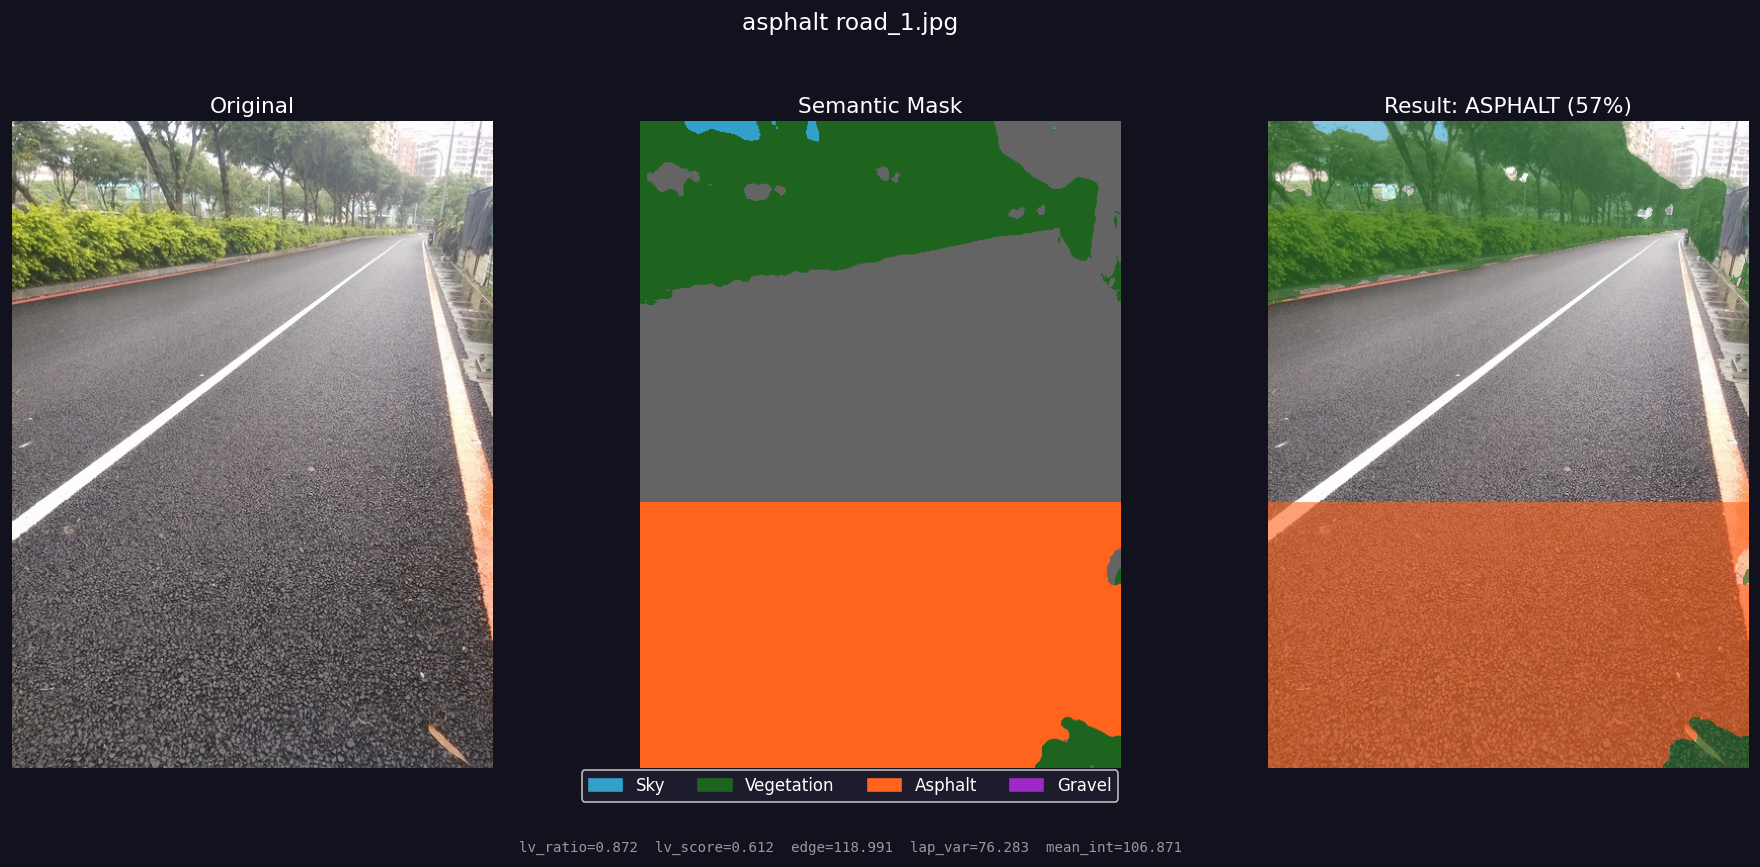
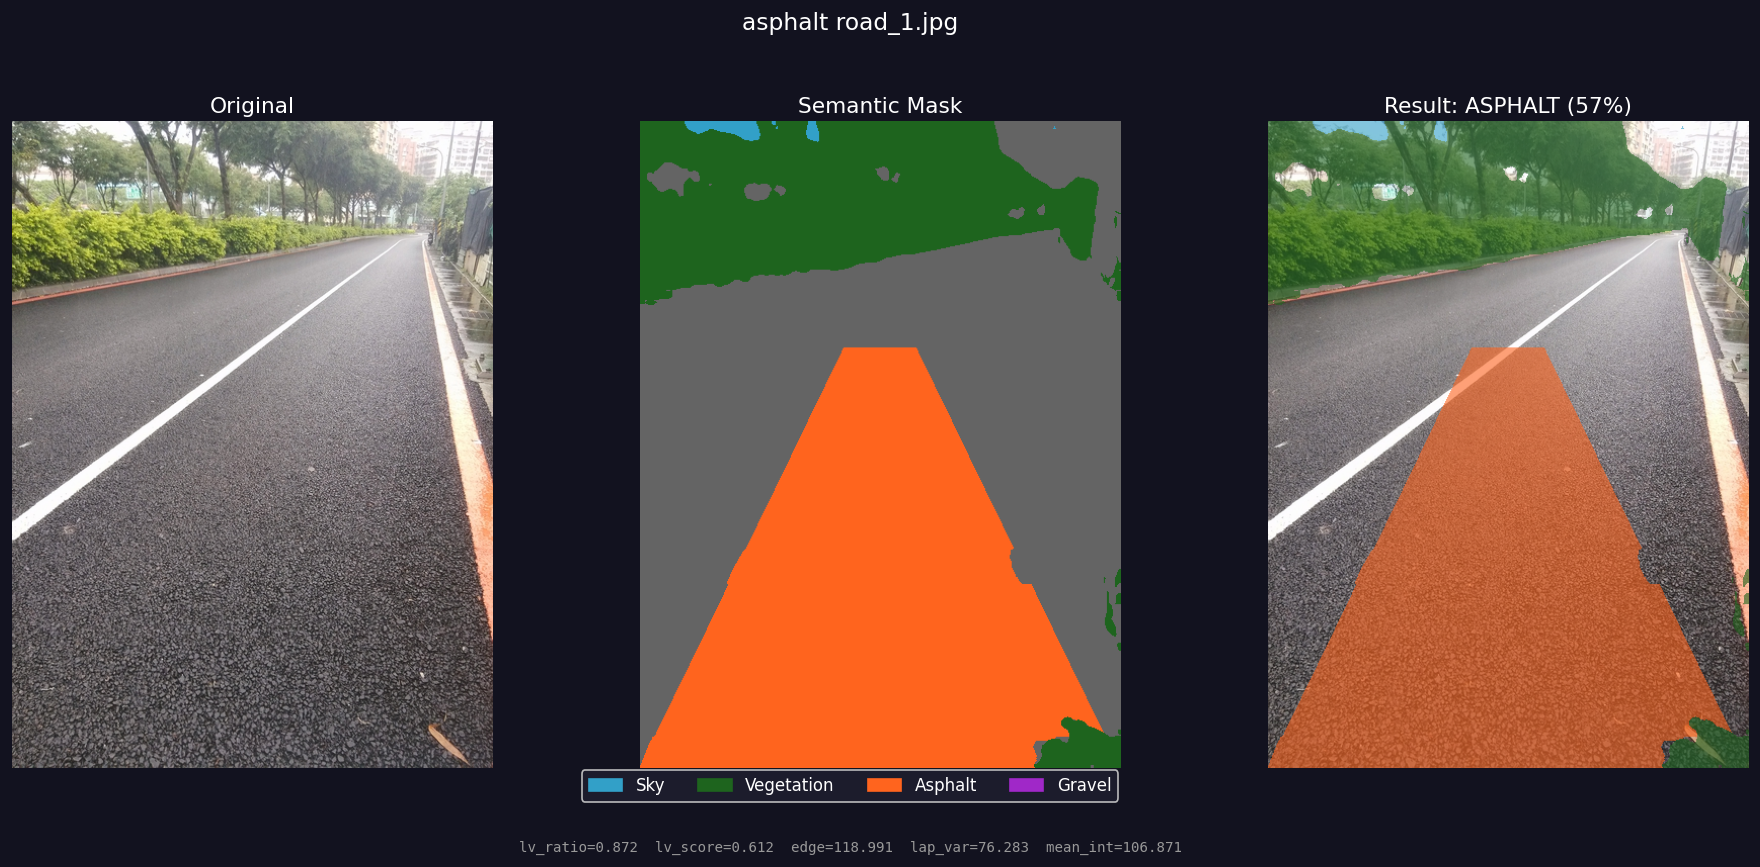
fix: asphalt_road_1 透視漸層收窄；更新 README 技術細節
- 新增 _gradient_taper_mask()：當 SegFormer 覆蓋率 > 45% 時
  自動啟動漸層收窄，從底部全寬平滑收縮至頂端 15% 寬
  解決下雨天反光導致道路顏色以矩形平舖的問題
- 新增 _hough_road_polygon() 保留但暫不用於主流程
- image_paths 過濾加入 'road' 關鍵字，排除 image.png
- save_summary 改為動態 n_rows，不限定 6 張
- README：碎石路顏色更新為紫色；技術細節新增形態學說明

Changed region(s): [[0.3438, 0.3737, 0.6562, 0.872], [0.7188, 0.3737, 1.0, 0.872], [0.9375, 0.8408, 0.9688, 0.872]]

diff --git a/road_detection.py b/road_detection.py
@@ -86,6 +86,125 @@ def run_segformer(image_path, processor, model, device):
     return seg_map
 
 
+def _gradient_taper_mask(road_mask: np.ndarray, upper_cut: int,
+                          top_frac: float = 0.20) -> np.ndarray:
+    """
+    Create a perspective-tapered version of road_mask.
+    Each row keeps the same centre as the SegFormer mask, but the width
+    shrinks linearly from 100 % at the bottom to `top_frac` % at upper_cut.
+
+    This gives the natural 'vanishing road' look without relying on lane markings.
+    """
+    H, W = road_mask.shape
+    tapered = np.zeros_like(road_mask)
+
+    for row in range(upper_cut, H):
+        cols = np.where(road_mask[row])[0]
+        if len(cols) == 0:
+            continue
+        c_min, c_max = int(cols[0]), int(cols[-1])
+        center   = (c_min + c_max) / 2.0
+        half_w   = (c_max - c_min) / 2.0
+
+        # t = 0 at upper_cut (top), t = 1 at H-1 (bottom)
+        t = (row - upper_cut) / max(1, H - 1 - upper_cut)
+        taper_hw = half_w * (top_frac + (1.0 - top_frac) * t)
+
+        x0 = max(0,     int(center - taper_hw))
+        x1 = min(W - 1, int(center + taper_hw))
+        tapered[row, x0 : x1 + 1] = True
+
+    return tapered & road_mask
+
+
+def _hough_road_polygon(bgr, upper_cut: int) -> np.ndarray | None:
+    """
+    Detect lane lines with Hough transform and return a filled
+    perspective polygon (H×W bool), or None if detection fails.
+
+    The polygon covers the road corridor from the bottom up to
+    approximately the vanishing-point row.
+    """
+    H, W = bgr.shape[:2]
+    gray = cv2.cvtColor(bgr, cv2.COLOR_BGR2GRAY)
+
+    # Work only in the road region
+    roi = gray[upper_cut:].copy()
+    roi_h = roi.shape[0]
+
+    blur  = cv2.GaussianBlur(roi, (7, 7), 0)
+    edges = cv2.Canny(blur, 40, 120)
+
+    lines = cv2.HoughLinesP(edges, rho=1, theta=np.pi / 180,
+                             threshold=40, minLineLength=60, maxLineGap=50)
+    if lines is None:
+        return None
+
+    cx = W // 2
+    left_pts, right_pts = [], []
+
+    for line in lines:
+        x1, y1, x2, y2 = line[0]
+        if x2 == x1:
+            continue
+        slope = (y2 - y1) / (x2 - x1)
+        # Convert ROI-relative y to full-image y
+        y1f, y2f = y1 + upper_cut, y2 + upper_cut
+
+        # Left lane: negative slope, left half
+        if -5.0 < slope < -0.25 and min(x1, x2) < cx:
+            left_pts += [(x1, y1f), (x2, y2f)]
+        # Right lane: positive slope, right half
+        elif 0.25 < slope < 5.0 and max(x1, x2) > cx:
+            right_pts += [(x1, y1f), (x2, y2f)]
+
+    def extrapolate(pts, y_bot, y_top):
+        if len(pts) < 4:
+            return None, None
+        arr = np.array(pts)
+        coeffs = np.polyfit(arr[:, 1], arr[:, 0], 1)   # x = f(y)
+        return int(np.polyval(coeffs, y_bot)), int(np.polyval(coeffs, y_top))
+
+    y_bottom = H - 1
+    y_top    = upper_cut + max(20, int(roi_h * 0.15))   # ~15 % above upper_cut
+
+    lx_b, lx_t = extrapolate(left_pts,  y_bottom, y_top)
+    rx_b, rx_t = extrapolate(right_pts, y_bottom, y_top)
+
+    if lx_b is None or rx_b is None:
+        return None
+
+    # Clamp to image bounds
+    def clamp(x): return max(0, min(W - 1, x))
+    lx_b, lx_t = clamp(lx_b), clamp(lx_t)
+    rx_b, rx_t = clamp(rx_b), clamp(rx_t)
+
+    # Sanity: left must be left of right
+    if lx_b >= rx_b or lx_t >= rx_t:
+        return None
+
+    poly_pts = np.array([[lx_b, y_bottom], [rx_b, y_bottom],
+                          [rx_t, y_top],   [lx_t, y_top]], dtype=np.int32)
+    poly = np.zeros((H, W), dtype=np.uint8)
+    cv2.fillPoly(poly, [poly_pts], 1)
+    return poly.astype(bool)
+
+
+def _default_trapezoid(H, W, upper_cut: int) -> np.ndarray:
+    """
+    Fallback: fixed trapezoid centred on the lower image.
+    Narrow at the top (~30 % width), wide at the bottom (full width).
+    """
+    bx0, bx1 = int(W * 0.00), int(W * 1.00)
+    tx0, tx1 = int(W * 0.30), int(W * 0.70)
+    ty        = upper_cut + max(10, int((H - upper_cut) * 0.10))
+    pts = np.array([[bx0, H - 1], [bx1, H - 1],
+                    [tx1, ty],    [tx0, ty]], dtype=np.int32)
+    trap = np.zeros((H, W), dtype=np.uint8)
+    cv2.fillPoly(trap, [pts], 1)
+    return trap.astype(bool)
+
+
 def make_class_masks(seg_map, bgr):
     """
     Build boolean masks for each semantic group.
@@ -95,7 +214,7 @@ def make_class_masks(seg_map, bgr):
     sky_mask      : full sky region
     veg_mask      : full vegetation region
     road_mask     : full road region (used for texture classification)
-    road_vis_mask : road region capped at 40 % coverage (used for display only)
+    road_vis_mask : perspective-shaped road polygon (used for display only)
     """
     H, W = seg_map.shape
 
@@ -121,27 +240,23 @@ def make_class_masks(seg_map, bgr):
         road_mask = (labels == largest)
 
     # ── fallback if road mask too small ──────────────────────────────────────
-    cov = road_mask.sum() / road_mask.size
-    if cov < 0.03:
+    if road_mask.sum() / road_mask.size < 0.03:
         road_mask[int(H * 0.5):, int(W * 0.1):int(W * 0.9)] = True
         print("  [WARN] sparse road mask – applied centre-bottom fallback")
 
-    # ── visual mask: cap at 40 % (keep bottom-most pixels) ───────────────────
-    # Keeps the overlay tidy; texture classification still uses the full mask.
-    road_vis_mask = road_mask.copy()
-    MAX_VIS_COV = 0.40
-    vis_cov = road_vis_mask.sum() / road_vis_mask.size
-    if vis_cov > MAX_VIS_COV:
-        target      = int(road_vis_mask.size * MAX_VIS_COV)
-        accumulated = 0
-        cutoff_row  = 0
-        for row in range(H - 1, -1, -1):
-            accumulated += int(road_vis_mask[row].sum())
-            if accumulated >= target:
-                cutoff_row = row
-                break
-        road_vis_mask[:cutoff_row, :] = False
-        print(f"  [INFO] visual road cov {vis_cov:.0%} → capped at {MAX_VIS_COV:.0%} for display")
+    # ── visual mask: use Hough polygon only when SegFormer over-detects ─────
+    # For normal images (coverage ≤ 45 %) keep the SegFormer shape as-is.
+    # For wide/flat over-detections (coverage > 45 %) apply a Hough polygon
+    # so the road tapers naturally toward the vanishing point.
+    seg_cov = road_mask.sum() / road_mask.size
+    if seg_cov > 0.45:
+        # SegFormer over-detected: apply gradient taper so the road
+        # narrows naturally toward the vanishing point.
+        road_vis_mask = _gradient_taper_mask(road_mask, upper_cut, top_frac=0.15)
+        new_cov = road_vis_mask.sum() / road_vis_mask.size
+        print(f"  [INFO] coverage high ({seg_cov:.0%}) → gradient taper applied ({new_cov:.0%})")
+    else:
+        road_vis_mask = road_mask.copy()   # SegFormer shape is fine
 
     return sky_mask, veg_mask, road_mask, road_vis_mask
 
@@ -325,9 +440,11 @@ def save_panel(bgr, sky_mask, veg_mask, road_mask, road_label,
 
 
 def save_summary(results, out_path):
-    """2×3 summary grid."""
-    fig = plt.figure(figsize=(24, 16), facecolor="#12121f")
-    gs  = gridspec.GridSpec(2, 3, wspace=0.05, hspace=0.15)
+    """Dynamic summary grid (cols=3, rows adjusted to fit)."""
+    n_cols = 3
+    n_rows = max(1, (len(results) + n_cols - 1) // n_cols)
+    fig = plt.figure(figsize=(24, 8 * n_rows), facecolor="#12121f")
+    gs  = gridspec.GridSpec(n_rows, n_cols, wspace=0.05, hspace=0.15)
 
     for i, r in enumerate(results):
         bgr        = r["bgr"]
@@ -379,6 +496,7 @@ def main():
     image_paths = sorted(
         p for p in IMAGE_DIR.glob("*")
         if p.suffix.lower() in {".jpg", ".jpeg", ".png"}
+        and "road" in p.name.lower()
     )
     if not image_paths:
         print("[ERROR] No images found in images/")
